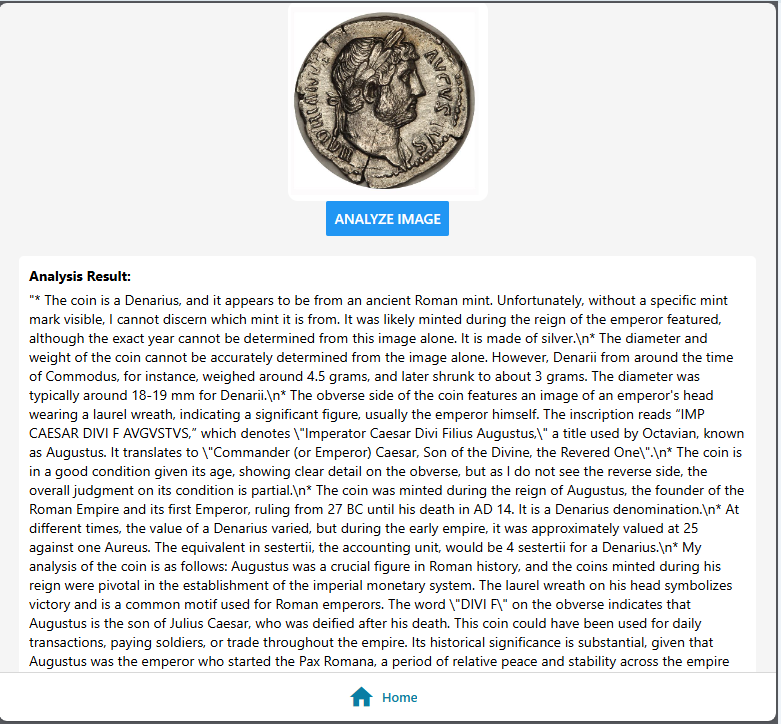
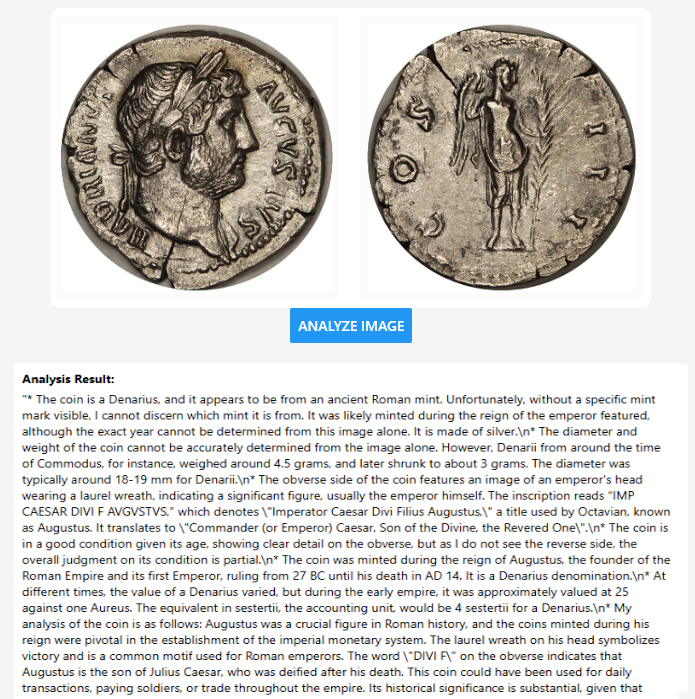
🏀 Thu Mar 27 14:00:06 CDT 2025

diff --git a/src/ui/app/(tabs)/index.tsx b/src/ui/app/(tabs)/index.tsx
@@ -97,8 +97,8 @@ const styles = StyleSheet.create({
     marginBottom: 10,
   },
   image: {
-    width: 200,
-    height: 200,
+    width: 600,
+    height: 300,
     marginTop: 10,
     borderRadius: 10,
   },

diff --git a/README.md b/README.md
@@ -2,11 +2,11 @@
 This project is a demonstration on how to use Azure OpenAI. It takes an uploaded image of a Roman Imperial Coin and analyzes it Azure OpenAI
 using the [Azure OpenAI Service](https://learn.microsoft.com/en-us/azure/cognitive-services/openai/overview?tabs=python) and the 'gpt-4-turbo' model. The application is built using a microservices architecture and deployed to Azure Kubernetes Service (AKS) with Azure Static Web Apps (SWA) for the front end.
 
-## Example o1 Analysis 
-![UI](./images/example-o1.png)
+## Example 
+| o1 Analysis | GTP-4 Analysis |
+| ----------- | --------------- |
+| ![UI](./images/example-o1.png) | ![UI](./images/example.png) |
 
-## Example GTP-4 Analysis 
-![UI](./images/example.png)
 <p align="right">(<a href="#Introduction">Back to Top</a>)</p>
 
 ## Components

diff --git a/docs/swagger.md b/docs/swagger.md
@@ -20,10 +20,15 @@ API Management
 <p align="right">(<a href="#api-management">Back to Top</a>)</p>
 
 ## Step 2
-* Provide the URL for the Swagger.json file or upload the file from your local machine.
+* Provide the URL for the [Swagger.json](https://raw.githubusercontent.com/briandenicola/openai-coin-analyzer/refs/heads/main/docs/swagger.json) file or upload the file from your local machine.
 * Select 'Append'
 * Click 'Import'
 * ![step2](../images/apim-step2.png)
+<p align="right">(<a href="#api-management">Back to Top</a>)</p>
+
+## Step 2b
+* Check the backend URL for the correct API. The import might have changed the URL from the default APIM URL to GitHub URL. 
+* Confirm its https://ric.${DEFAULT_DOMAIN_NAME}
 <p align="right">(<a href="#api-management">Back to Top</a>)</p>
 
 # Result
